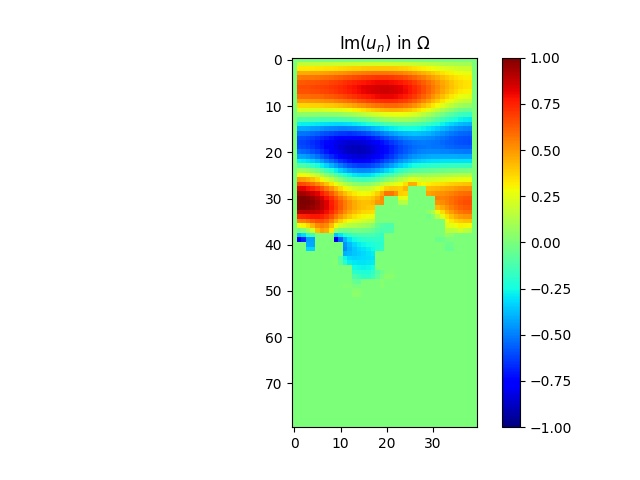
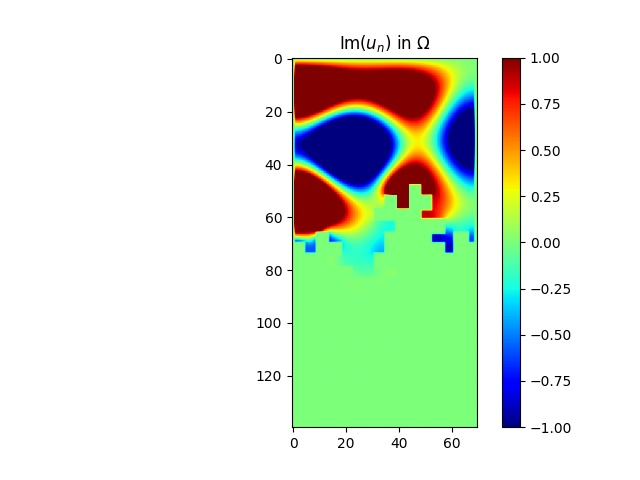
a l'echelle

diff --git a/demo_control_polycopie.py b/demo_control_polycopie.py
@@ -28,11 +28,11 @@ import random
 def your_optimization_procedure(domain_omega, spacestep, wavenumber, f, f_dir, f_neu, f_rob,
                                 beta_pde, alpha_pde, alpha_dir, beta_neu, beta_rob, alpha_rob,
                                 Alpha, mu, chi, V_obj, mu1, V_0):
-
     eps1 = 0.01
-    eps2_0 = 30
-    eps2 = eps2_0
-    eps0 = 0.00001
+    eps2_0 = 30*spacestep*40
+    eps2 = eps2_0*spacestep*40
+    eps0 = 0.00001*spacestep*40
+    eps3 = 0.1*spacestep*40
     """This function return the optimized density.
 
     Parameter:
@@ -47,7 +47,7 @@ def your_optimization_procedure(domain_omega, spacestep, wavenumber, f, f_dir, f
 
     k = 0
     (M, N) = numpy.shape(domain_omega)
-    numb_iter = 20
+    numb_iter = 10
     energy = numpy.zeros((numb_iter+1, 1), dtype=numpy.float64)
 
     ##########################################################
@@ -146,7 +146,7 @@ def your_optimization_procedure(domain_omega, spacestep, wavenumber, f, f_dir, f
             energy[k+1] = ene
             if ene < energy[k]:
                 # The step is increased if the energy decreased
-                mu = mu * 1.1
+                mu = mu * (1+eps3)
             else:
                 # The step is decreased is the energy increased
                 mu = mu / 2
@@ -211,12 +211,6 @@ if __name__ == '__main__':
     # ----------------------------------------------------------------------
     # -- Fell free to modify the function call in this cell.
     # ----------------------------------------------------------------------
-    # -- set parameters of the geometry
-    N = 40  # number of points along x-axis
-    M = 2 * N  # number of points along y-axis
-    level = 2  # level of the fractal : limited by N
-    spacestep = 1.0 / N  # mesh size
-
     # -- set parameters of the partial differential equation
     kx = -1.0
     ky = -1.0
@@ -224,6 +218,13 @@ if __name__ == '__main__':
     wavenumber = numpy.sqrt(kx**2 + ky**2)  # wavenumber
     wavenumber = 10.0
     omega = wavenumber*c
+
+    # -- set parameters of the geometry
+    N = max(int(7.*wavenumber),20) # number of points along x-axis
+    M = 2 * N  # number of points along y-axis
+    level = 2  # level of the fractal : limited by N
+    spacestep = 1.0 / N  # mesh size
+
     # ----------------------------------------------------------------------
     # -- Do not modify this cell, these are the values that you will be assessed against.
     # ----------------------------------------------------------------------
@@ -298,7 +299,7 @@ if __name__ == '__main__':
     # V_obj = numpy.sum(numpy.sum(chi))
     mu = 0.5  # initial gradient step
     mu1 = 10**(-5)  # parameter of the volume functional
-    print(V_obj,integral(chi))
+
     # ----------------------------------------------------------------------
     # -- Do not modify this cell, these are the values that you will be assessed against.
     # ----------------------------------------------------------------------
@@ -322,7 +323,6 @@ if __name__ == '__main__':
 
     chin = chi.copy()
     un = u.copy()
-    print(integral(chi),"vs ", numpy.sum(numpy.sum(chi))/S)
 
     # -- plot chi, u, and energy
     postprocessing._plot_uncontroled_solution(u0, chi0)
